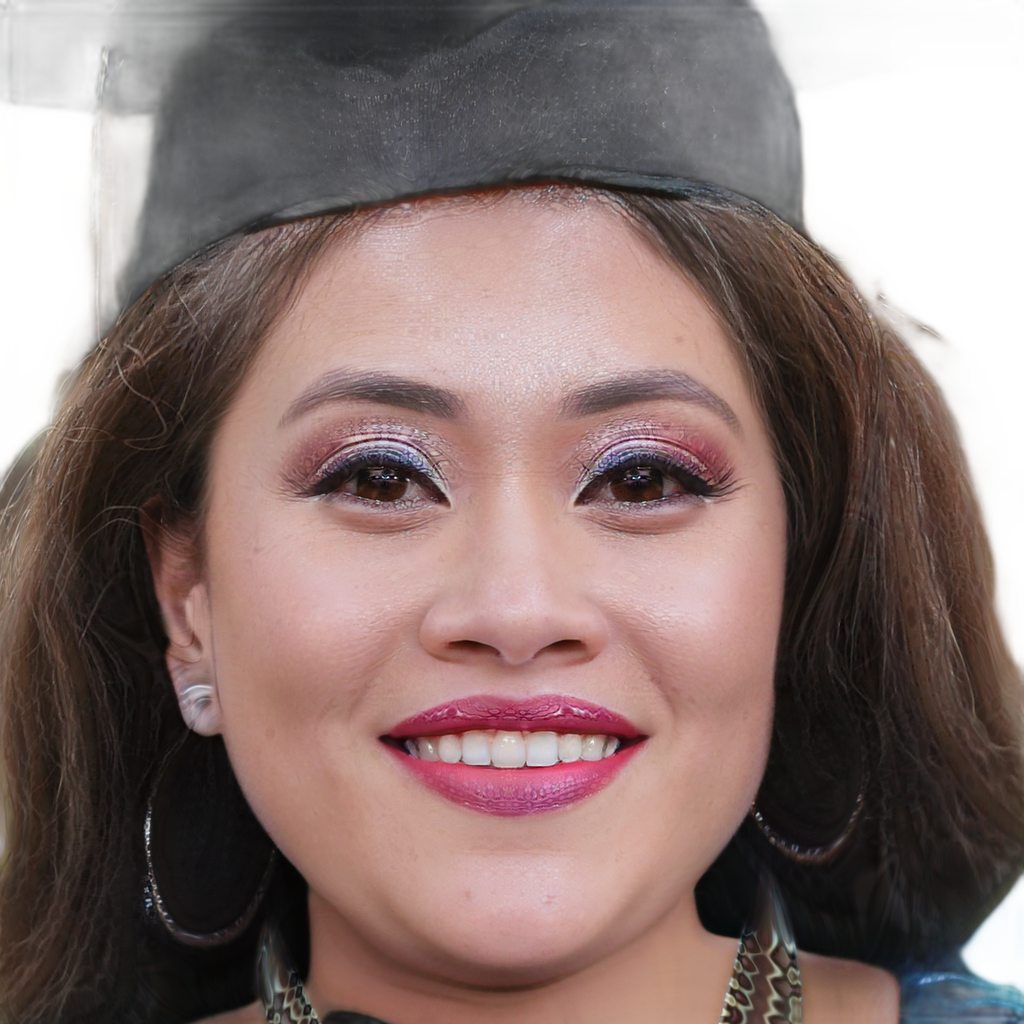
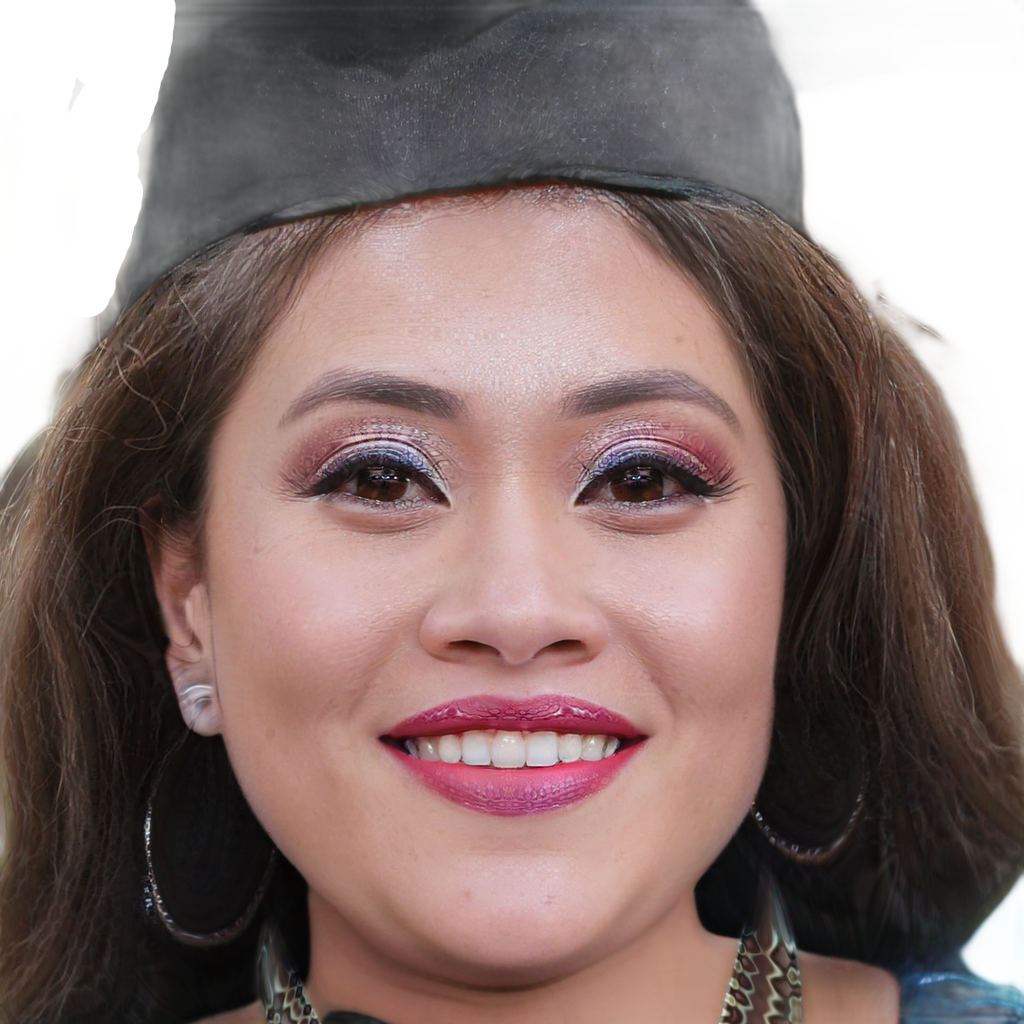
more picture cleaning

Changed region(s): [[0.0, 0.0, 0.1875, 0.3125]]

diff --git a/src/App.js b/src/App.js
@@ -15,10 +15,6 @@ function App() {
     "/people/man4.png",
     "/people/woman4.png",
     "/people/man5.png",
-    "/people/woman5.png",
-    "/people/man6.png",
-    "/people/woman6.png",
-    "/people/man7.png",
     "/people/woman7.png",
     "/people/man8.png",
     "/people/woman8.png",
